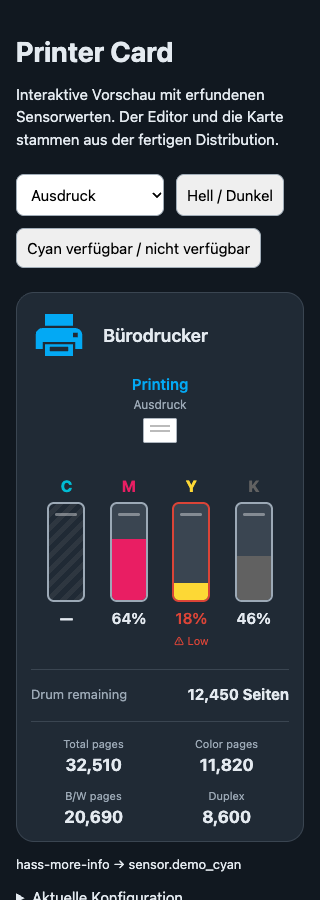
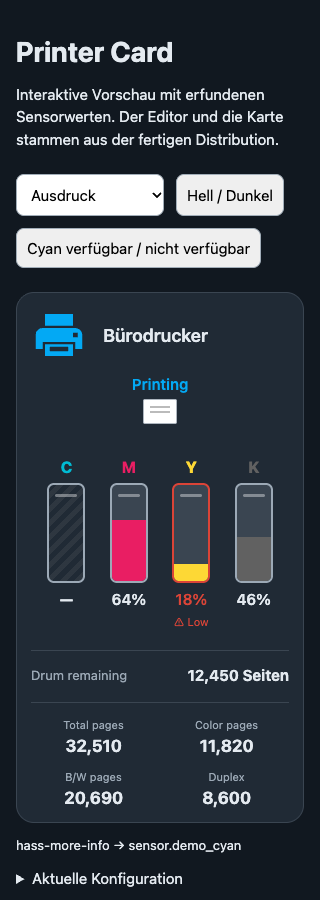
Add files via upload

diff --git a/dist/printer-card.js b/dist/printer-card.js
@@ -1,4 +1,4 @@
-/*! Printer Card v1.0.0 | MIT License */
+/*! Printer Card v1.0.1 | MIT License */
 // model.js
 const ENTITY_KEYS = ['status', 'cyan', 'magenta', 'yellow', 'black', 'drum', 'total', 'color', 'bw', 'duplex'];
 const DEFAULT_PATTERNS = Object.freeze({
@@ -77,7 +77,9 @@ function displayState(entity, locale) {
   if (!entity || ['unknown','unavailable',''].includes(entity.state)) return '—';
   const number = Number(entity.state);
   const value = entity.state.trim() && Number.isFinite(number) ? new Intl.NumberFormat(locale).format(number) : entity.state;
-  return `${value}${entity.attributes?.unit_of_measurement ? ' '+entity.attributes.unit_of_measurement : ''}`;
+  const originalUnit = entity.attributes?.unit_of_measurement;
+  const unit = String(locale).startsWith('de') && /^pages?$/i.test(String(originalUnit ?? '').trim()) ? 'Seiten' : originalUnit;
+  return `${value}${unit ? ' '+unit : ''}`;
 }
 
 // styles.js
@@ -196,7 +198,7 @@ class PrinterCard extends HTMLElement {
     const missing=Object.entries(e).filter(([,id])=>id && !states[id]);
     this.shadowRoot.innerHTML=`<style>${CARD_STYLE}</style><ha-card style="--status-color:${STATUS_COLORS[status.kind]}">
       <header>${e.status?`<button class="head-button" ${entityAttr(e.status)} aria-label="${escapeHTML(t.more+': '+title)}">`:'<div class="head-button">'}<span class="printer ${active?'printing':''}">${PRINTER_SVG}</span><h2>${escapeHTML(title)}</h2>${e.status?'</button>':'</div>'}</header>
-      ${e.status?`<p class="status" role="status">${escapeHTML(statusText)}</p>${raw && !['unknown','unavailable'].includes(raw) && raw!==statusText?`<p class="raw">${escapeHTML(raw)}</p>`:''}`:''}
+      ${e.status?`<p class="status" role="status">${escapeHTML(statusText)}</p>`:''}
       ${active?'<div class="paper-slot" aria-hidden="true"><div class="paper"></div></div>':''}
       ${tonerMarkup?`<div class="toners">${tonerMarkup}</div>`:''}
       ${e.drum?`<button class="drum" ${entityAttr(e.drum)}><span>${t.drum}</span><strong>${escapeHTML(displayState(states[e.drum],lang))}</strong></button>`:''}

diff --git a/src/card.js b/src/card.js
@@ -39,7 +39,7 @@ export class PrinterCard extends HTMLElement {
     const missing=Object.entries(e).filter(([,id])=>id && !states[id]);
     this.shadowRoot.innerHTML=`<style>${CARD_STYLE}</style><ha-card style="--status-color:${STATUS_COLORS[status.kind]}">
       <header>${e.status?`<button class="head-button" ${entityAttr(e.status)} aria-label="${escapeHTML(t.more+': '+title)}">`:'<div class="head-button">'}<span class="printer ${active?'printing':''}">${PRINTER_SVG}</span><h2>${escapeHTML(title)}</h2>${e.status?'</button>':'</div>'}</header>
-      ${e.status?`<p class="status" role="status">${escapeHTML(statusText)}</p>${raw && !['unknown','unavailable'].includes(raw) && raw!==statusText?`<p class="raw">${escapeHTML(raw)}</p>`:''}`:''}
+      ${e.status?`<p class="status" role="status">${escapeHTML(statusText)}</p>`:''}
       ${active?'<div class="paper-slot" aria-hidden="true"><div class="paper"></div></div>':''}
       ${tonerMarkup?`<div class="toners">${tonerMarkup}</div>`:''}
       ${e.drum?`<button class="drum" ${entityAttr(e.drum)}><span>${t.drum}</span><strong>${escapeHTML(displayState(states[e.drum],lang))}</strong></button>`:''}

diff --git a/src/model.js b/src/model.js
@@ -75,5 +75,7 @@ export function displayState(entity, locale) {
   if (!entity || ['unknown','unavailable',''].includes(entity.state)) return '—';
   const number = Number(entity.state);
   const value = entity.state.trim() && Number.isFinite(number) ? new Intl.NumberFormat(locale).format(number) : entity.state;
-  return `${value}${entity.attributes?.unit_of_measurement ? ' '+entity.attributes.unit_of_measurement : ''}`;
+  const originalUnit = entity.attributes?.unit_of_measurement;
+  const unit = String(locale).startsWith('de') && /^pages?$/i.test(String(originalUnit ?? '').trim()) ? 'Seiten' : originalUnit;
+  return `${value}${unit ? ' '+unit : ''}`;
 }

diff --git a/README.md b/README.md
@@ -91,9 +91,9 @@ entities:
 
 Tonerentitäten müssen den **verbleibenden Prozentwert** liefern. Zahlen und Prozentstrings wie `42`, `42%` oder `42,5` werden akzeptiert und auf 0–100 begrenzt. Es wird nicht automatisch aus Seitenständen, Kapazitäten oder einem verbrauchten Anteil umgerechnet; dafür gegebenenfalls einen HA-Template-Sensor vorschalten.
 
-Die Trommel kann Prozent oder Restseiten liefern: Wert und `unit_of_measurement` der Entität werden angezeigt. Die anderen Zähler werden ebenfalls mit ihrer vorhandenen Einheit dargestellt; Duplex ist ein Anzeigewert, kein Schalter. Für die Daten ist eine passende Drucker-/SNMP-/Template-Integration erforderlich. Die Karte fragt selbst keinen Drucker ab.
+Die Trommel kann Prozent oder Restseiten liefern: Wert und `unit_of_measurement` der Entität werden angezeigt. Bei deutscher Anzeigesprache wird die Einheit `page`/`pages` als „Seiten“ angezeigt. Die anderen Zähler werden ebenfalls mit ihrer vorhandenen Einheit dargestellt; Duplex ist ein Anzeigewert, kein Schalter. Für die Daten ist eine passende Drucker-/SNMP-/Template-Integration erforderlich. Die Karte fragt selbst keinen Drucker ab.
 
-`unknown`, `unavailable`, leere und ungültige Tonerwerte erscheinen als **—**, nicht als 0 %. Zugewiesene, aber nicht gefundene Entitäten werden zusätzlich unter der Karte benannt. Nicht erkannte Druckerzustände bleiben im Original sichtbar. Bei erkannten Zuständen bleibt abweichender Rohtext unter dem übersetzten Status sichtbar.
+`unknown`, `unavailable`, leere und ungültige Tonerwerte erscheinen als **—**, nicht als 0 %. Zugewiesene, aber nicht gefundene Entitäten werden zusätzlich unter der Karte benannt. Nicht erkannte Druckerzustände bleiben im Original sichtbar. Erkannte Zustände werden nur einmal als übersetzter Status angezeigt.
 
 ### Statusmuster
 

diff --git a/VALIDATION.md b/VALIDATION.md
@@ -2,7 +2,9 @@
 
 ## Erfolgreich geprüft
 
-- Sieben automatisierte Logiktests: Statusprioritäten, DE/EN-Muster, Fach 1/2, Ersatzmuster und leere Kategorien, exakte/Wildcard-Erkennung, Prozentwerte, Konfigurationsvalidierung und HTML-Escaping.
+- Version 1.0.1: keine zusätzliche Status-Rohtextzeile; deutsche Seiten-Einheit im tatsächlichen Browser-Rendering geprüft.
+
+- Acht automatisierte Logiktests: Statusprioritäten, DE/EN-Muster, Fach 1/2, Ersatzmuster und leere Kategorien, exakte/Wildcard-Erkennung, Prozentwerte, Konfigurationsvalidierung und HTML-Escaping.
 - Distribution gebaut und JavaScript-Syntax geprüft.
 - Die tatsächliche gebaute Distribution wurde in lokalem Chrome mit Playwright geladen. Keine JavaScript-Browserfehler.
 - Vier Kartuschen, niedriger Tonerstand, zehn Editorfelder und Entitätsvorschläge.

diff --git a/CHANGELOG.md b/CHANGELOG.md
@@ -1,5 +1,10 @@
 # Changelog
 
+## 1.0.1 — 2026-10-05
+
+- Erkannte Statusmeldungen werden nur einmal angezeigt; die zusätzliche Rohtextzeile entfällt.
+- Englische Sensoreinheiten `page`/`pages` erscheinen auf Deutsch als „Seiten“.
+
 ## 1.0.0 — 2026-10-05
 
 - Generic printer card with ten optional entity assignments and a visual editor.
